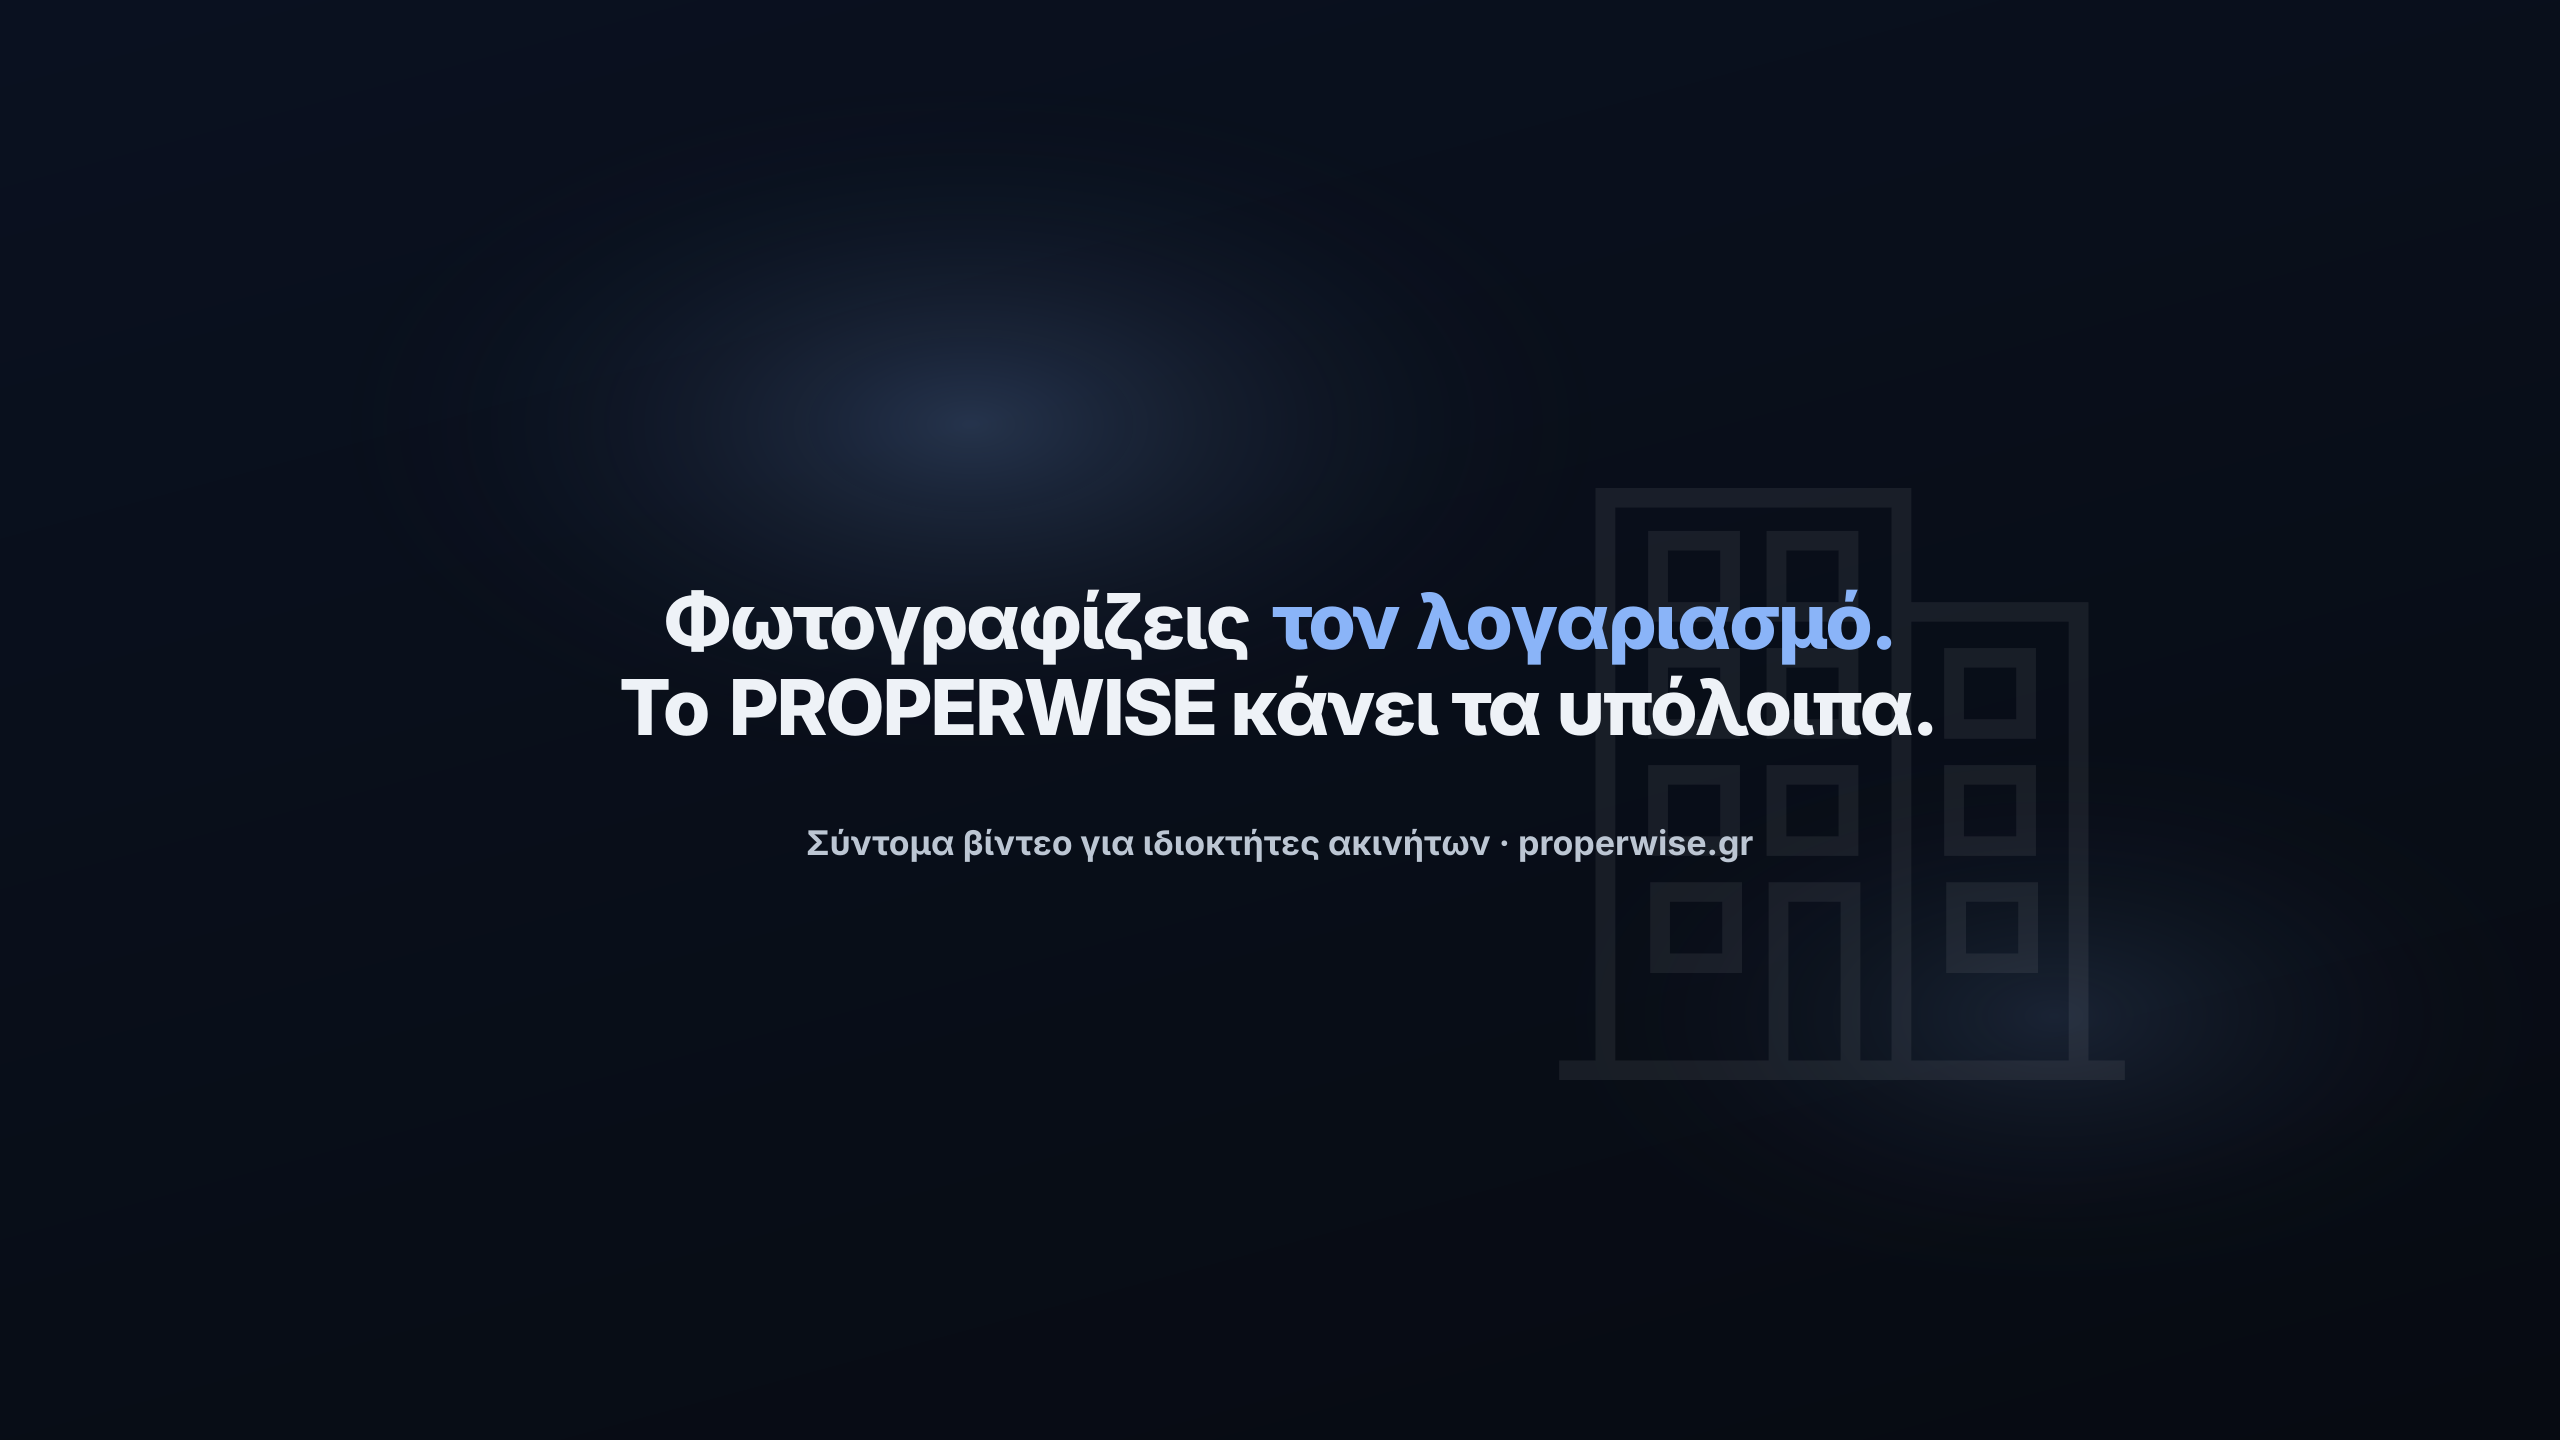
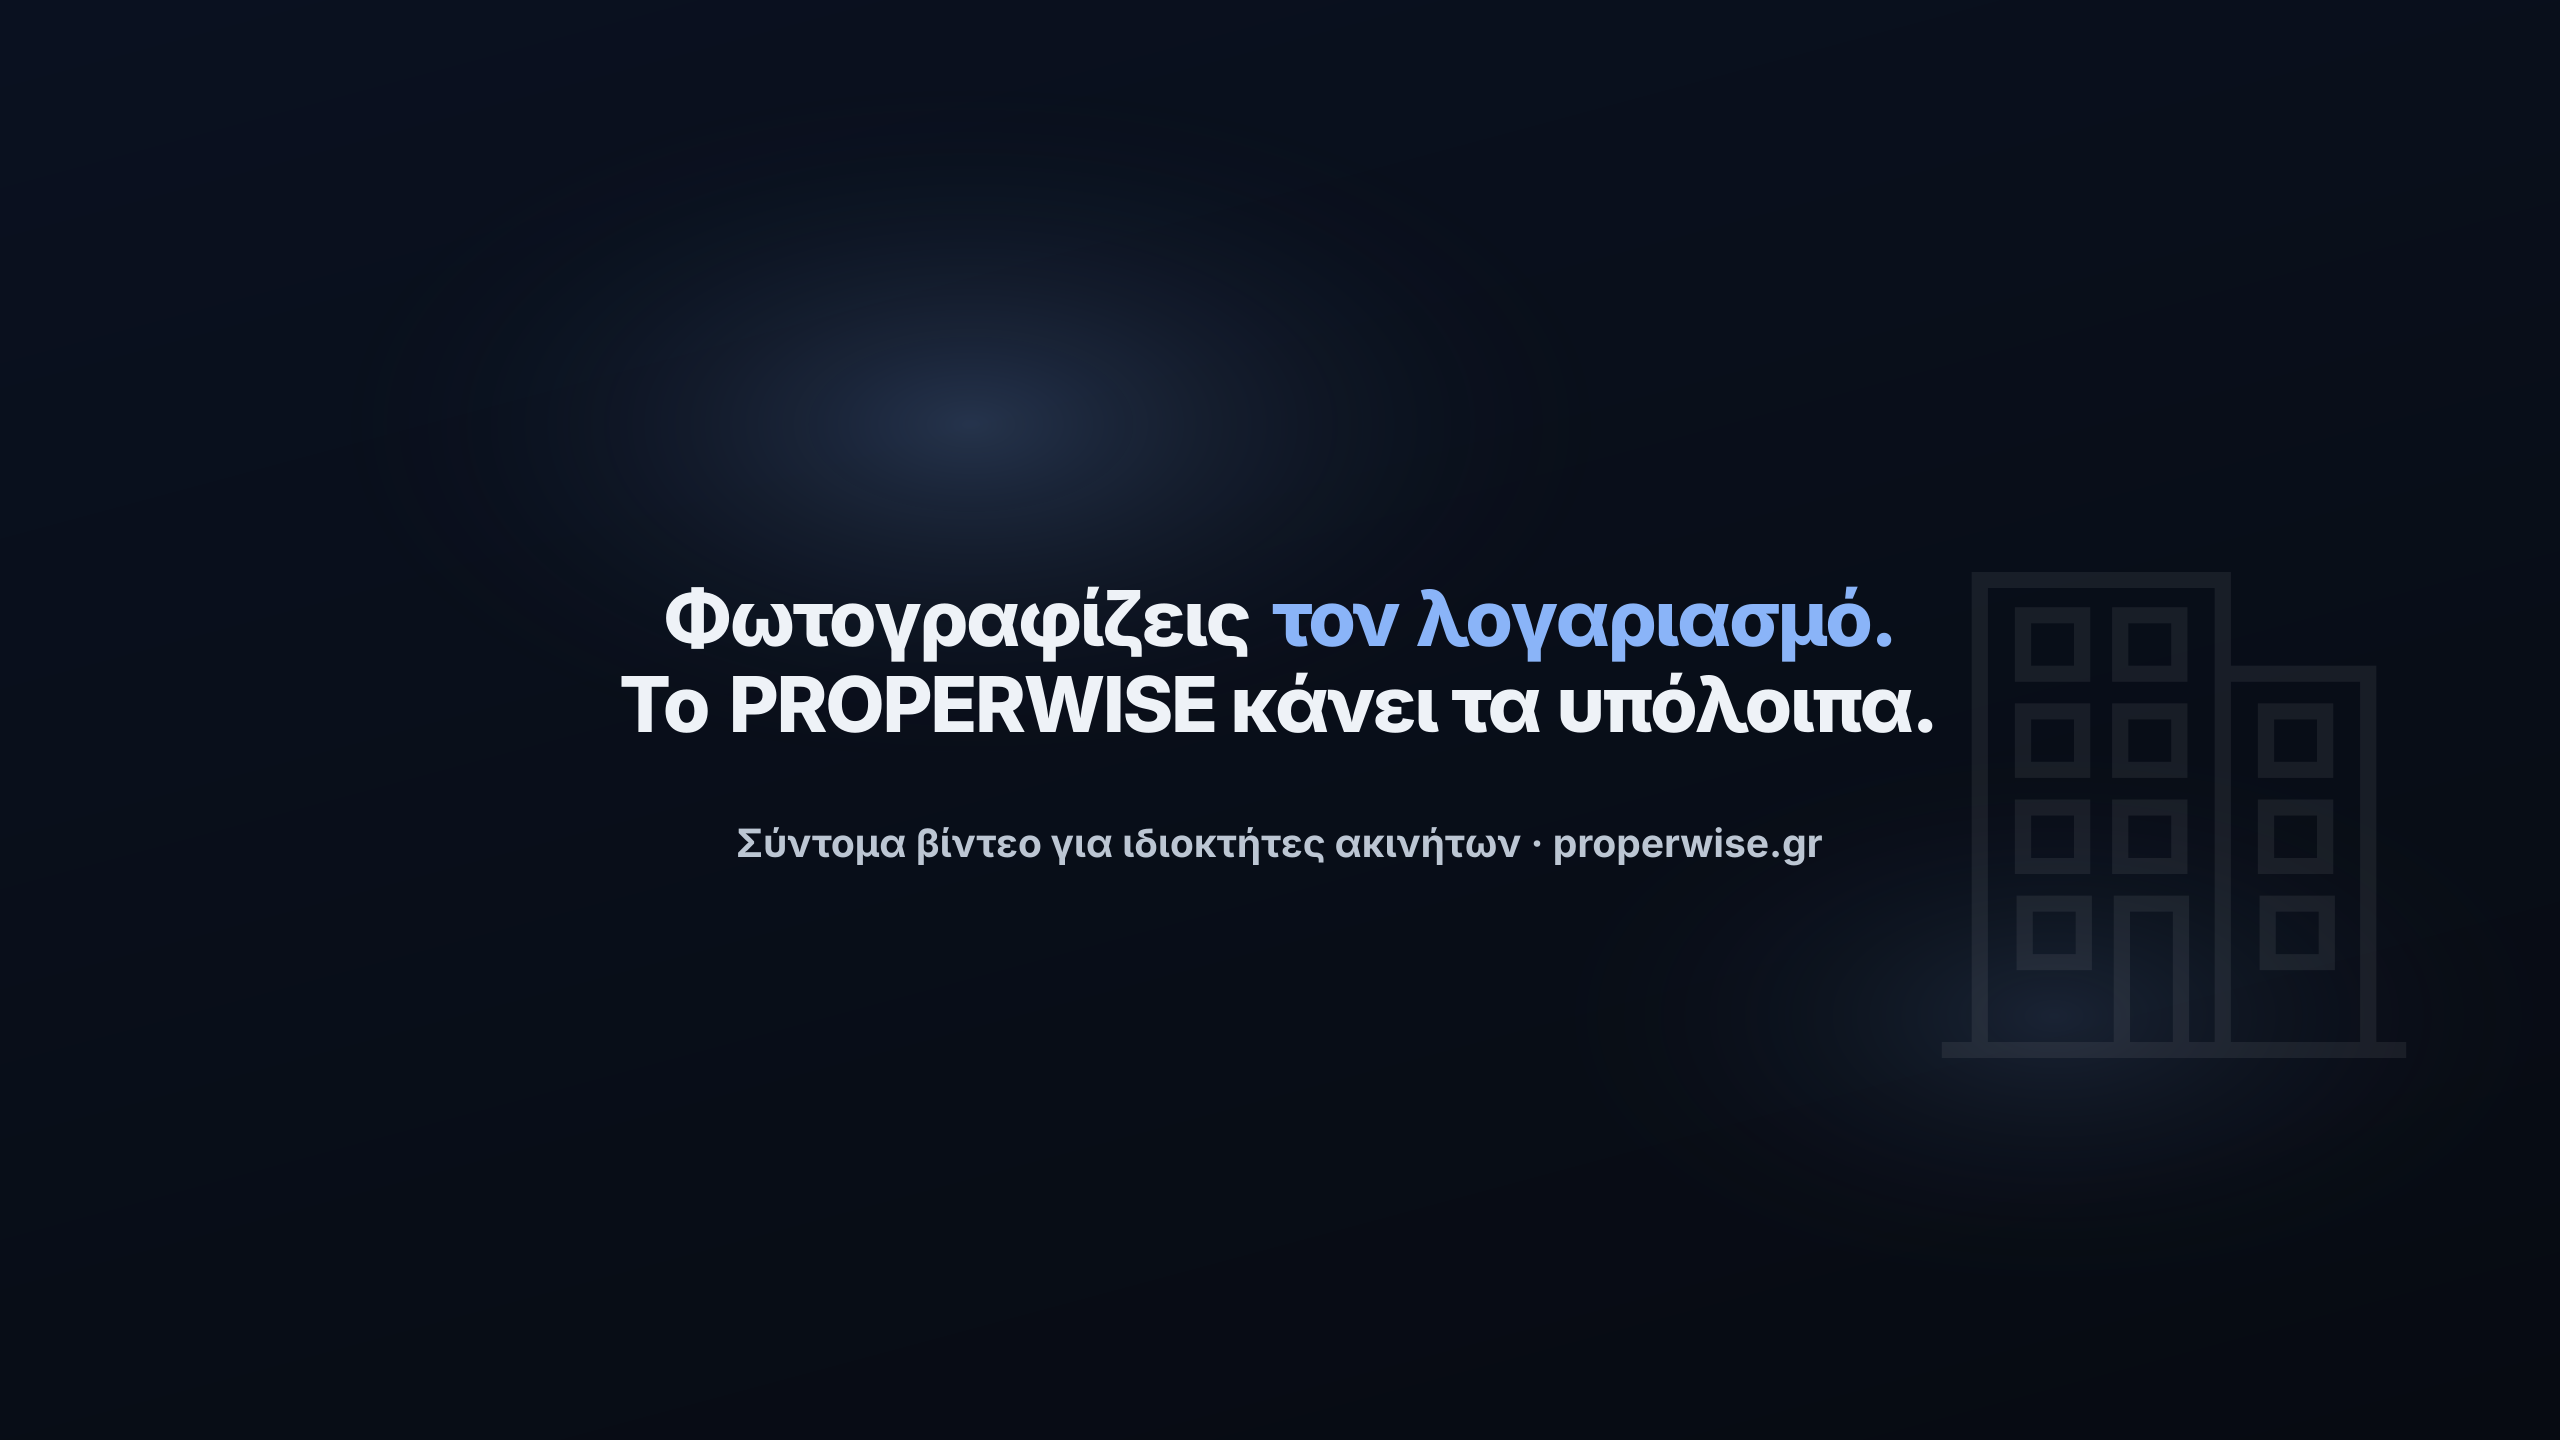
Εξώφυλλο YouTube: υπότιτλος που διαβάζεται στο κινητό, σήμα δεξιά από τον τίτλο
Στο κινητό η ζώνη των 1546 γίνεται περίπου το ένα τέταρτο, οπότε ο
υπότιτλος στο 0,44 του τίτλου έβγαινε γύρω στα 8 εικονοστοιχεία· τώρα 0,5.
Το αχνό σήμα έπεφτε πίσω από το τέλος του τίτλου («υπόλοιπα.»), γιατί η ζώνη
είναι πιο κοντή από τα στενά εξώφυλλα· τώρα μικρότερο και δεξιά από το
κείμενο, όπως κάθεται στα LinkedIn και X. Τα άλλα εξώφυλλα δεν αλλάζουν.

Claude-Session: https://claude.ai/code/session_01FciDzM5oCHC6crgCfFdPE1

Changed region(s): [[0.25, 0.4062, 0.75, 0.5312], [0.2812, 0.5625, 0.7188, 0.5938]]

diff --git a/scripts/marketing/covers.tsx b/scripts/marketing/covers.tsx
@@ -84,8 +84,11 @@ function ogBanner({ width, height, lines, sub, lift = 0, safe }: OgBanner) {
           ].join(', '),
         }}
       >
-        <div style={{ position: 'absolute', right: Math.round(bx - bh * 0.2), bottom: Math.round(by - bh * 0.35), display: 'flex', opacity: 0.07 }}>
-          {mark(Math.round(bh * 1.4), BRAND_MARK_ON_DARK)}
+        {/* Στα στενά εξώφυλλα το σήμα κάθεται δεξιά από το κείμενο. Στη ζώνη του
+            YouTube (πιο κοντή σε σχέση με τον τίτλο) θα έπεφτε πίσω από το τέλος
+            του· εκεί μικραίνει και βγαίνει πέρα από τη δεξιά άκρη της ζώνης. */}
+        <div style={{ position: 'absolute', right: Math.round(bx - bh * (safe ? 0.86 : 0.2)), bottom: Math.round(by - bh * (safe ? 0.3 : 0.35)), display: 'flex', opacity: 0.07 }}>
+          {mark(Math.round(bh * (safe ? 1.15 : 1.4)), BRAND_MARK_ON_DARK)}
         </div>
         <div style={{ display: 'flex', flexDirection: 'column', alignItems: 'center', fontSize: size, fontWeight: 800, letterSpacing: '-0.03em', lineHeight: 1.12 }}>
           {lines.map(l => (
@@ -95,7 +98,7 @@ function ogBanner({ width, height, lines, sub, lift = 0, safe }: OgBanner) {
             </div>
           ))}
         </div>
-        {sub && <div style={{ display: 'flex', fontSize: Math.round(size * (safe ? 0.44 : 0.4)), fontWeight: 600, color: c.muted }}>{sub}</div>}
+        {sub && <div style={{ display: 'flex', fontSize: Math.round(size * (safe ? 0.5 : 0.4)), fontWeight: 600, color: c.muted }}>{sub}</div>}
       </div>
     ),
     { width, height, fonts },
